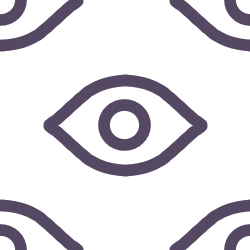
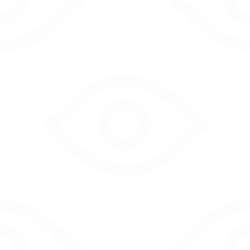
Moved transparency to pattern.png itself

diff --git a/src/App.css b/src/App.css
@@ -4,23 +4,9 @@
     flex-direction: column;
     position: relative;
     min-height: 100%;
-    background: var(--unnamed-color-f3edff)
+    background: var(--unnamed-color-f3edff) url(./Pattern.png) 0 0;
+    background-size: 5%;
 }
-
-/* TODO fix image\video overlap on homepage
-/*.App::before{*/
-/*    background: transparent url(./Pattern.png) 0 0*/
-/*    repeat;*/
-/*    content: "";*/
-/*    opacity: 0.015;*/
-/*    background-size: 5%;*/
-/*    position: absolute;*/
-/*    pointer-events: none;*/
-/*    top: 0;*/
-/*    right: 0;*/
-/*    bottom: 0;*/
-/*    left: 0;*/
-/*}*/
 
 html,body, #root {
     height:100%
